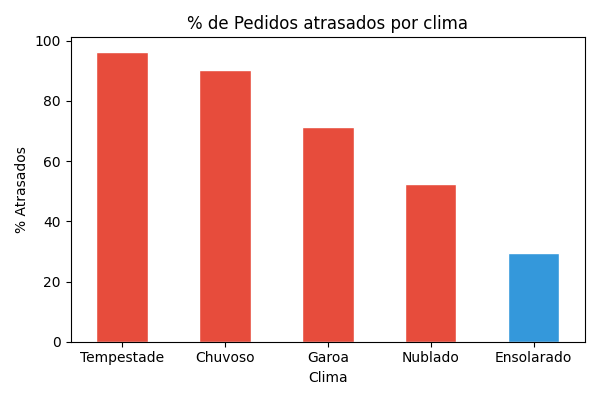
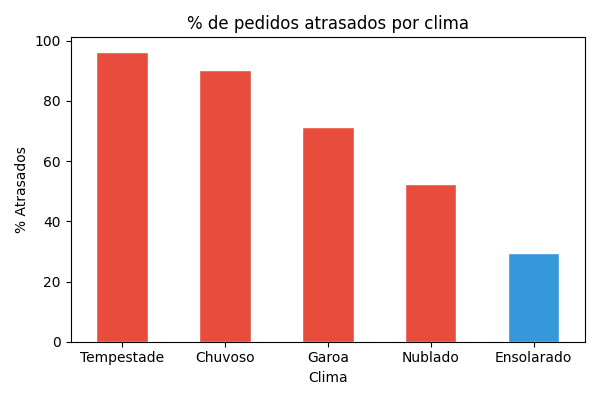
feat: update dashboard and delivery pages with subheadings for improved clarity

Changed region(s): [[0.39, 0.03, 0.78, 0.09]]

diff --git a/frontend/resources/views/pages/delivery/buscar-avaliacoes.blade.php b/frontend/resources/views/pages/delivery/buscar-avaliacoes.blade.php
@@ -1,7 +1,7 @@
 <x-layouts::app title="Buscar avaliações">
     <div class="space-y-6">
-        <flux:heading size="xl">Busca semântica de avaliações</flux:heading>
-        <flux:text>Busque avaliações de clientes por similaridade semântica usando embeddings.</flux:text>
+        <flux:heading size="xl" level="1">Busca semântica de avaliações</flux:heading>
+        <flux:subheading size="lg">Busque avaliações de clientes por similaridade semântica usando embeddings.</flux:subheading>
         <livewire:buscar-avaliacoes />
     </div>
 </x-layouts::app>

diff --git a/frontend/resources/views/pages/delivery/insights.blade.php b/frontend/resources/views/pages/delivery/insights.blade.php
@@ -1,7 +1,7 @@
 <x-layouts::app title="Insights">
     <div class="space-y-6">
-        <flux:heading size="xl">Insights operacionais</flux:heading>
-        <flux:text>Análise gerada por GPT-4o combinando métricas operacionais e avaliações de clientes.</flux:text>
+        <flux:heading size="xl" level="1">Insights operacionais</flux:heading>
+        <flux:subheading size="lg">Análise gerada por GPT-4o combinando métricas operacionais e avaliações de clientes.</flux:subheading>
         <livewire:insights />
     </div>
 </x-layouts::app>

diff --git a/frontend/resources/views/pages/delivery/prever-atraso.blade.php b/frontend/resources/views/pages/delivery/prever-atraso.blade.php
@@ -1,7 +1,7 @@
 <x-layouts::app title="Prever atraso">
     <div class="space-y-6">
-        <flux:heading size="xl">Previsão de atraso</flux:heading>
-        <flux:text>Informe os dados do pedido para o modelo prever se haverá atraso na entrega.</flux:text>
+        <flux:heading size="xl" level="1">Previsão de atraso</flux:heading>
+        <flux:subheading size="lg">Informe os dados do pedido para o modelo prever se haverá atraso na entrega.</flux:subheading>
         <livewire:prever-atraso />
     </div>
 </x-layouts::app>

diff --git a/frontend/resources/views/dashboard.blade.php b/frontend/resources/views/dashboard.blade.php
@@ -1,7 +1,7 @@
 <x-layouts::app :title="__('Dashboard')">
     <div class="space-y-6">
-        <flux:heading size="xl">Dashboard</flux:heading>
-        <flux:text>Visão geral das operações de entrega.</flux:text>
+        <flux:heading size="xl" level="1">Dashboard</flux:heading>
+        <flux:subheading size="lg">Visão geral das operações de entrega.</flux:subheading>
         <livewire:dashboard />
     </div>
 </x-layouts::app>
